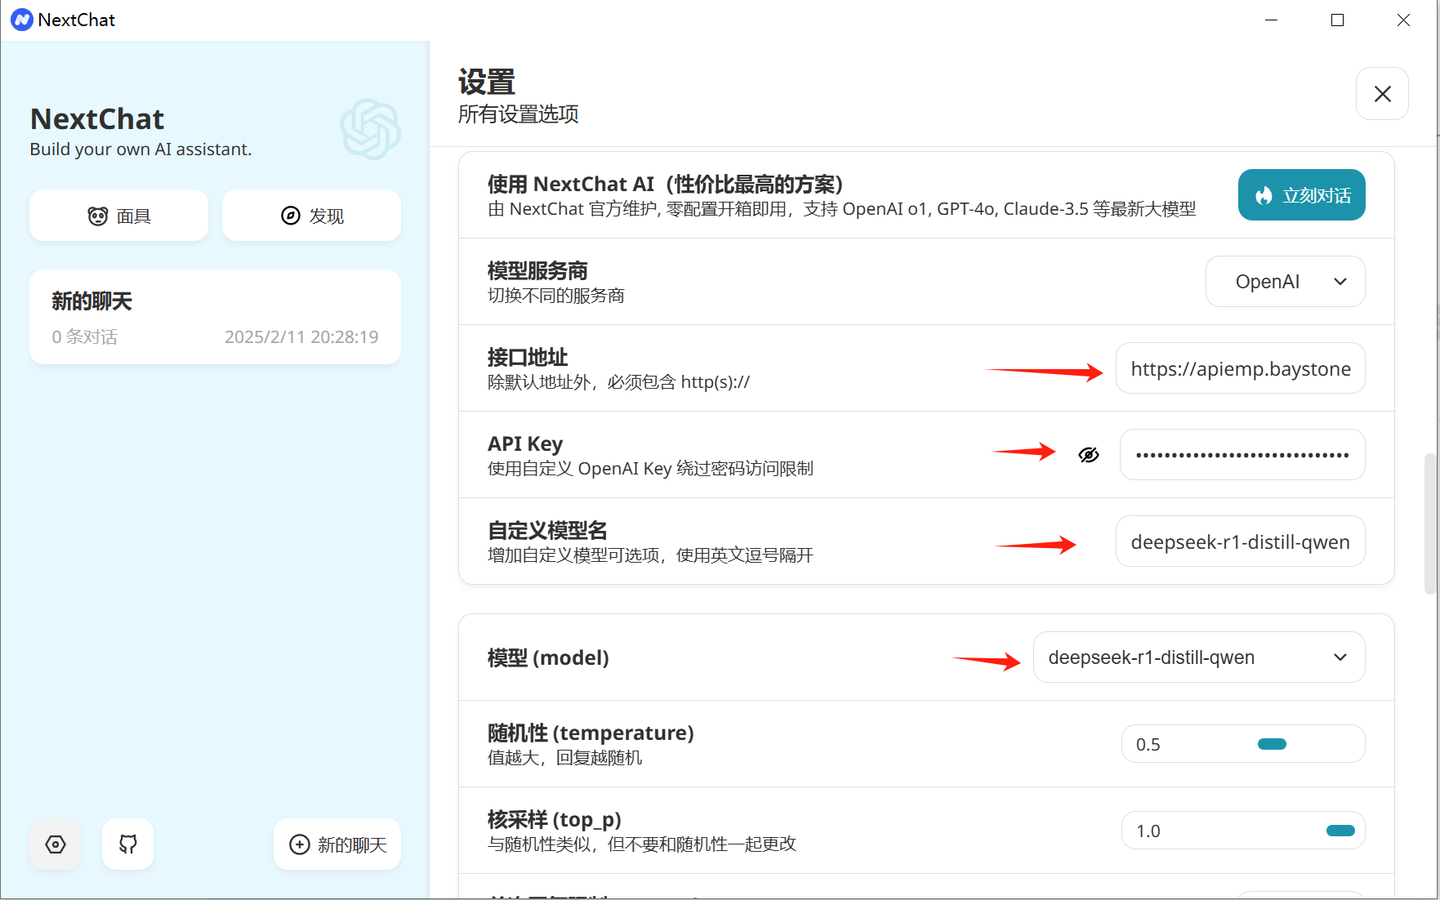
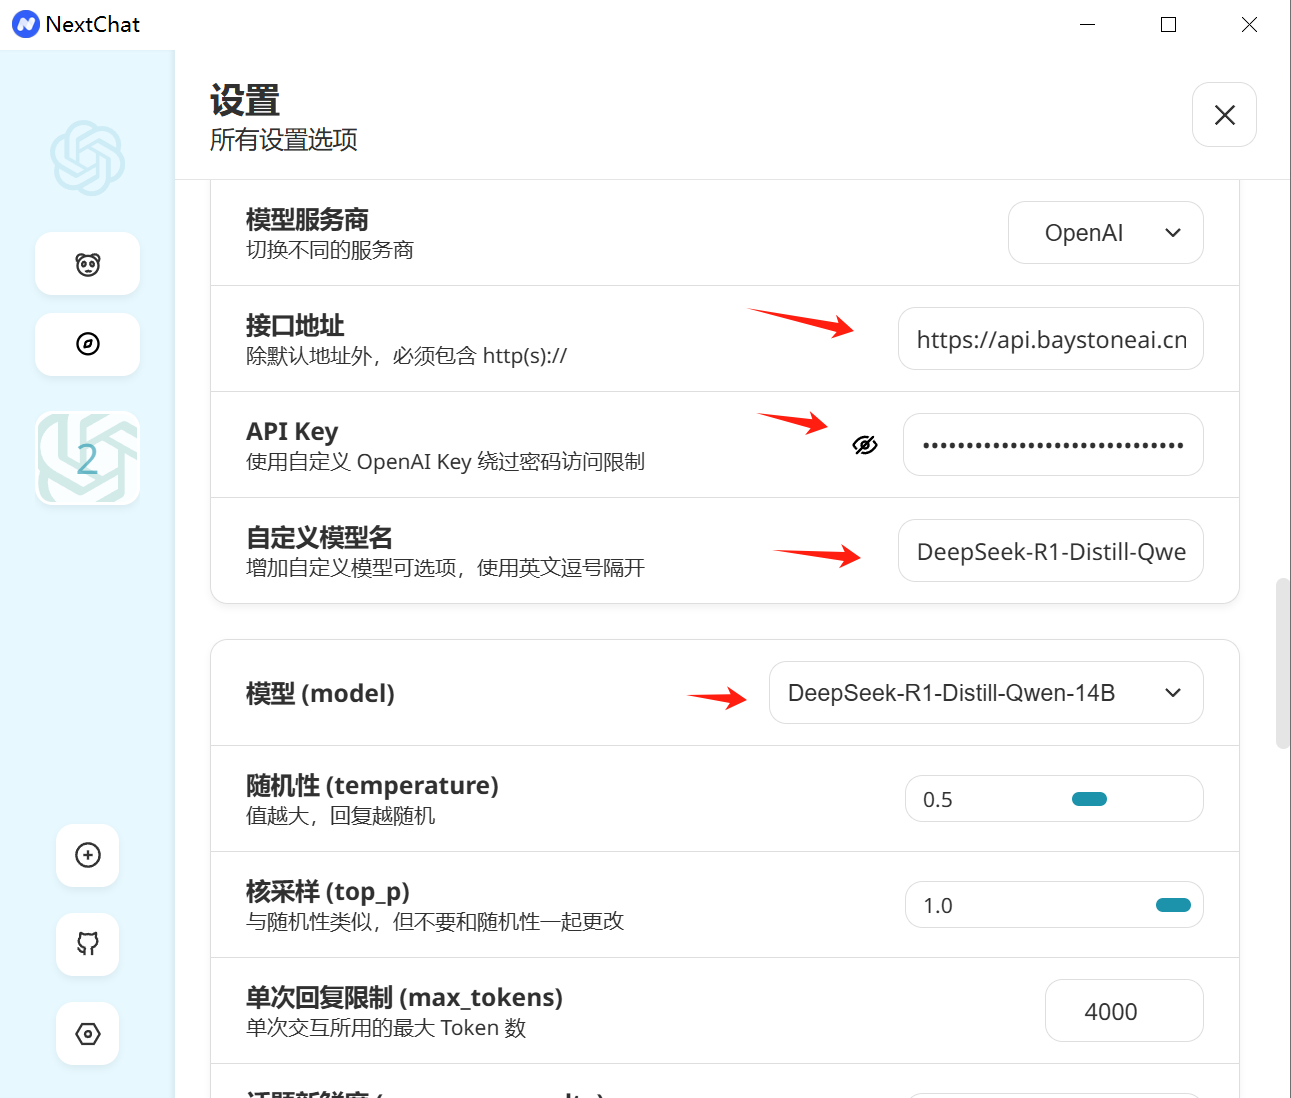
修改新的路径

diff --git a/docs/start-use/quickstart.md b/docs/start-use/quickstart.md
@@ -14,19 +14,21 @@ sidebar_position: 2
 在官网的首页正中间的大模型列表,
 
 
-## 大模型列表
+## 规格 与 价格
 
-| 类型   | 模型                          | 价格(按tokens收费)                |
-|--------|-------------------------------|----------------------------------|
-| 文本生成 | deepseek-r1:32b               | ¥14/1000000 Tokens             |
-| 文本生成 | DeepSeek-R1-671B-4k           | ¥14/1000000 Tokens             |
-| 文本生成 | deepseek-v3                   | ¥14/1000000 Tokens             |
-| 文本生成 | deepseek-r1                   | ¥14/1000000 Tokens             |
-| 文本生成 | deepseek-r1-distill-qwen      | ¥14/1000000 Tokens             |
-| 文本生成 | qwen2.5-instruct              | ¥0.6/1000000 Tokens            |
-| 文本生成 | llama-3.1-instruct            | 免费                           |
-| 独立部署 | 客户指定大模型                 | 联系我们，服务器可选H100、L40S、L20、4090 |
-
+| 类型     | 模型                                | 价格(按tokens收费)                                      |
+|----------|-----------------------------------|------------------------------------------------------|
+| 文本生成 | DeepSeek-R1-671B                 | ￥14/1000000 Tokens（注册用户：免费100次调用/天，限时3天） |
+| 文本生成 | DeepSeek-V3-671B                 | ￥7/1000000 Tokens（注册用户：免费100次调用/天，限时3天）  |
+| 文本生成 | DeepSeek-R1-Distill-Llama-70B    | ￥3.5/1000000 Tokens（注册用户：免费100次调用/天，限时3天）|
+| 文本生成 | DeepSeek-R1-Distill-Qwen-32B     | ￥1/1000000 Tokens（注册用户：免费100次调用/天，限时3天）  |
+| 文本生成 | DeepSeek-R1-Distill-Qwen-14B     | ￥0.6/1000000 Tokens（注册用户：免费100次调用/天，限时3天） |
+| 文本生成 | DeepSeek-R1-Distill-Llama-8B     | ￥0.3/1000000 Tokens（注册用户：免费100次调用/天，限时3天） |
+| 文本生成 | DeepSeek-R1-Distill-Qwen-7B      | ￥0.3/1000000 Tokens（注册用户：免费100次调用/天，限时3天） |
+| 文本生成 | DeepSeek-R1-Distill-Qwen-1.5B    | 免费（注册用户：100次调用/天 / 实名用户：免费调用）    |
+| 文本生成 | Qwen2.5-instruct-14B             | ￥0.6/1000000 Tokens（注册用户：免费100次调用/天，限时3天） |
+| 文本生成 | Llama-3.1-70B                    | 免费（注册用户：100次调用/天 / 实名用户：免费调用）    |
+| 独立部署 | 客户指定大模型                    | 联系我们，服务器可选H100、L40S、L20、4090               |
 
 
 ### 3. 获取API Key
@@ -41,14 +43,14 @@ sidebar_position: 2
 
 #### 4.1 使用curl命令调用
 
-您可以直接在命令行中使用curl命令调用API，其中 YOUR_API_KEY 参数替换成自己的API-KEY, 以下是一个使用模型deepseek-r1-distill-qwen的示例： 
+您可以直接在命令行中使用curl命令调用API，其中 YOUR_API_KEY 参数替换成自己的API-KEY, 以下是一个使用模型DeepSeek-R1-Distill-Qwen-14B的示例： 
 
 ```sh
-export API_BASE_URL="https://apiemp.baystoneai.com/cognihub/service"
+export API_BASE_URL="https://api.baystoneai.cn"
 export API_KEY="{YOUR_API_KEY}"
 
 curl -X POST $API_BASE_URL/v1/chat/completions -H"Content-Type: application/json" -H "Authorization: Bearer $API_KEY" -d '{
-    "model": "deepseek-r1-distill-qwen",
+    "model": "DeepSeek-R1-Distill-Qwen-14B",
     "stream": true,
     "messages": [
         {"role": "system", "content": "You are ahelpful assistant."},
@@ -60,11 +62,11 @@ curl -X POST $API_BASE_URL/v1/chat/completions -H"Content-Type: application/json
 ```
 
 #### 4.2 使用Python调用
-您也可以使用Python语音来调用API,以下是一个使用模型deepseek-r1-distill-qwen的示例：
+您也可以使用Python语音来调用API,以下是一个使用模型DeepSeek-R1-Distill-Qwen-14B的示例：
 ```python
 from openai import OpenAI
 
-API_BASE_URL = "https://apiemp.baystoneai.com/cognihub/service"
+API_BASE_URL = "https://api.baystoneai.cn"
 API_KEY = "{YOUR_API_KEY}"
 
 client = OpenAI(base_url=f"{API_BASE_URL}/v1", api_key=API_KEY)
@@ -73,7 +75,7 @@ client = OpenAI(base_url=f"{API_BASE_URL}/v1", api_key=API_KEY)
 isStream = True
 
 response = client.chat.completions.create(
-    model="deepseek-r1-distill-qwen",
+    model="DeepSeek-R1-Distill-Qwen-14B",
     messages=[
         {"role": "user", "content": "你是谁"}
     ],
@@ -100,9 +102,9 @@ else:
 ```
 
 #### 4.3 使用NodeJs调用
-同样在NodeJs中也是可以使用的, 以下是一个使用模型deepseek-r1-distill-qwen的示例：
+同样在NodeJs中也是可以使用的, 以下是一个使用模型DeepSeek-R1-Distill-Qwen-14B的示例：
 ```javascript
-const API_BASE_URL = "https://apiemp.baystoneai.com/cognihub/service";
+const API_BASE_URL = "https://api.baystoneai.cn";
 const API_KEY = "{YOUR_API_KEY}";
 
 // 控制是否使用流式输出
@@ -119,7 +121,7 @@ async function callAPI() {
         'Authorization': `Bearer ${API_KEY}`,
       },
       body: JSON.stringify({
-        model: "deepseek-r1-distill-qwen",
+        model: "DeepSeek-R1-Distill-Qwen-14B",
         messages: [
           { role: "system", content: "You are a helpful assistant." },
           { role: "user", content: "Who won the world series in 2020?" },

diff --git a/docs/api-manual/text-chat.md b/docs/api-manual/text-chat.md
@@ -21,7 +21,7 @@ Authorization: Bearer YOUR_API_KEY
 #### 3.1 请求参数说明
 
 - 请求方法: POST
-- 请求路径: `https://apiemp.baystoneai.com/cognihub/service/v1/chat/completions`
+- 请求路径: `https://api.baystoneai.cn/v1/chat/completions`
 - 请求头: 
 ```
 Content-Type: application/json
@@ -148,12 +148,12 @@ usage 统计了本次 API 请求消耗的 Token 数量：
 请求
 
 ```json
-POST https://apiemp.baystoneai.com/cognihub/service/v1/chat/completions
+POST https://api.baystoneai.cn/v1/chat/completions
 Content-Type: application/json
 Authorization: Bearer YOUR_API_KEY
 
 {
-  "model": "deepseek-r1-distill-qwen",
+  "model": "DeepSeek-R1-Distill-Qwen-14B",
   "messages": [
     {"role": "system", "content": "You are a helpful assistant."},
     {"role": "user", "content": "Explain quantum mechanics in simple terms."}
@@ -169,7 +169,7 @@ Authorization: Bearer YOUR_API_KEY
   "id": "chatcmpl-123",
   "object": "chat.completion",
   "created": 1677858242,
-  "model": "deepseek-r1-distill-qwen",
+  "model": "DeepSeek-R1-Distill-Qwen-14B",
   "choices": [
     {
       "message": {"role": "assistant", "content": "Quantum mechanics is the study of..."},
@@ -189,12 +189,12 @@ Authorization: Bearer YOUR_API_KEY
 
 请求
 ```json
-POST https://apiemp.baystoneai.com/cognihub/service/v1/chat/completions
+POST https://api.baystoneai.cn/v1/chat/completions
 Content-Type: application/json
 Authorization: Bearer YOUR_API_KEY
 
 {
-  "model": "deepseek-r1-distill-qwen",
+  "model": "DeepSeek-R1-Distill-Qwen-14B",
   "messages": [
     {"role": "system", "content": "You are a helpful assistant."},
     {"role": "user", "content": "Explain quantum mechanics in simple terms."}
@@ -210,7 +210,7 @@ Authorization: Bearer YOUR_API_KEY
   "id": "chatcmpl-456",
   "object": "chat.completion.chunk",
   "created": 1677858243,
-  "model": "deepseek-r1-distill-qwen",
+  "model": "DeepSeek-R1-Distill-Qwen-14B",
   "choices": [
     {
       "delta": {"content": "Quantum "},

diff --git a/docs/api-manual/common.md b/docs/api-manual/common.md
@@ -13,17 +13,17 @@ sidebar_position: 1
 
 ### 2. API BASE URL地址
 
-https://apiemp.baystoneai.com/cognihub/service/v1
+https://api.baystoneai.cn
 
 所有 API 端点都基于此 URL 进行调用，例如：
 
 | 端点 | 说明 | 完整 URL |
 |------|------|---------|
-| `chat/completions` | 生成对话 | `https://api.openai.com/v1/chat/completions` |
-| `completions` | 传统文本补全 | `https://api.openai.com/v1/completions` |
-| `edits` | 文本编辑 | `https://api.openai.com/v1/edits` |
-| `images/generations` | 生成图片 | `https://api.openai.com/v1/images/generations` |
-| `models` | 获取可用模型列表 | `https://api.openai.com/v1/models` |
+| `chat/completions` | 生成对话 | `https://api.baystoneai.cn/v1/chat/completions` |
+| `completions` | 传统文本补全 | `https://api.baystoneai.cn/v1/completions` |
+| `edits` | 文本编辑 | `https://api.baystoneai.cn/v1/edits` |
+| `images/generations` | 生成图片 | `https://api.baystoneai.cn/v1/images/generations` |
+| `models` | 获取可用模型列表 | `https://api.baystoneai.cn/v1/models` |
 
 ---
 
@@ -61,7 +61,7 @@ Authorization: Bearer YOUR_API_KEY
 ```python
 import openai
 
-API_BASE_URL = "https://apiemp.baystoneai.com/cognihub/service"
+API_BASE_URL = "https://api.baystoneai.cn"
 API_KEY = "{YOUR_API_KEY}"
 
 client = OpenAI(base_url=f"{API_BASE_URL}/v1", api_key=API_KEY)
@@ -89,7 +89,7 @@ for chunk in response:
 ```python
 import openai
 
-API_BASE_URL = "https://apiemp.baystoneai.com/cognihub/service"
+API_BASE_URL = "https://api.baystoneai.cn"
 API_KEY = "{YOUR_API_KEY}"
 
 client = OpenAI(base_url=f"{API_BASE_URL}/v1", api_key=API_KEY)

diff --git a/docs/user-cases/08-VSCode.md b/docs/user-cases/08-VSCode.md
@@ -18,9 +18,9 @@ MARKETPLACE.VISUALSTUDIO.COM
 
 ### 3.获取模型服务的相关参数
 
-- 服务地址: https://apiemp.baystoneai.com/cognihub/service/v1
+- 服务地址: https://api.baystoneai.cn/v1
 - API-KEY: (登录后在管理台获取)  
-- 模型: deepseek-r1-distill-qwen
+- 模型: DeepSeek-R1-Distill-Qwen-14B
 
 ### 4.在VSCode 中 安装 CONTINUE
 
@@ -31,16 +31,16 @@ MARKETPLACE.VISUALSTUDIO.COM
 
 安装完成后，点击 CONTINUE 图标，然后点击设置图标，进行配置。
 ![alt text](img/vs-2.png)
-- 服务地址: https://apiemp.baystoneai.com/cognihub/service/v1
+- 服务地址: https://api.baystoneai.cn/v1
 - API-KEY: (登录后在管理台获取)
-- 模型: deepseek-r1-distill-qwen
+- 模型: DeepSeek-R1-Distill-Qwen-14B
 
 ```json
     {
       "title": "英智deepseek-r1",
       "provider": "openai",
-      "model": "deepseek-r1-distill-qwen",
-      "apiBase": "https://apiemp.baystoneai.com/cognihub/service/v1",
+      "model": "DeepSeek-R1-Distill-Qwen-14B",
+      "apiBase": "https://api.baystoneai.cn/v1",
       "apiKey": "*********8"
     },
 ```

diff --git a/docs/user-cases/07-DB-GPT.md b/docs/user-cases/07-DB-GPT.md
@@ -9,9 +9,9 @@ DB-GPT 是一个开源的 AI 原生数据应用开发框架，旨在通过集成
 
 ### 2. 获取配置需要的参数
 
-- 服务地址: https://apiemp.baystoneai.com/cognihub/service/v1
+- 服务地址: https://api.baystoneai.cn/v1
 - API-KEY: (登录后在管理台获取)  
-- 模型: deepseek-r1-distill-qwen
+- 模型: DeepSeek-R1-Distill-Qwen-14B
 
 ### 3. 部署 DB-GPT
 
@@ -50,7 +50,7 @@ cp .env.template .env
 ```bash
 # 配置具体使用的模型名称
 BAYSTONEAI_MODEL_VERSION=deepseek-r1-distill-qwen
-BAYSTONEAI_API_BASE=https://apiemp.baystoneai.com/cognihub/service/v1
+BAYSTONEAI_API_BASE=https://api.baystoneai.cn/v1
 # 记得填写您在步骤2中获取的 API Key
 BAYSTONEAI_API_KEY={API-KEY}
 ```
